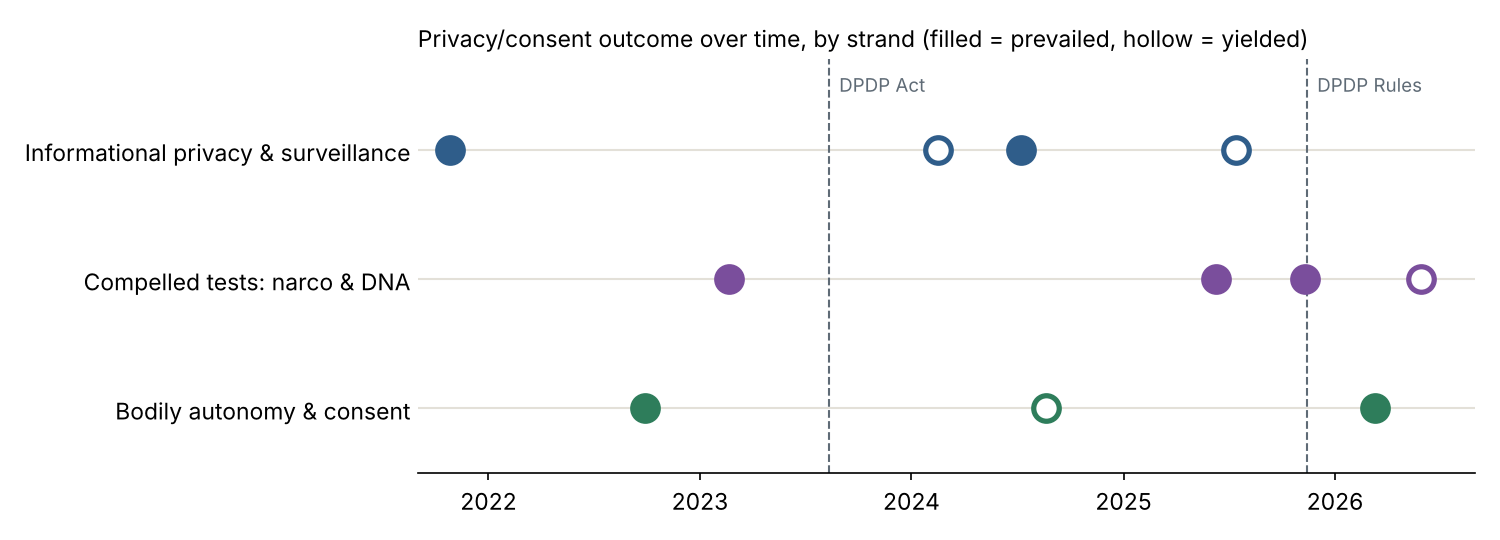
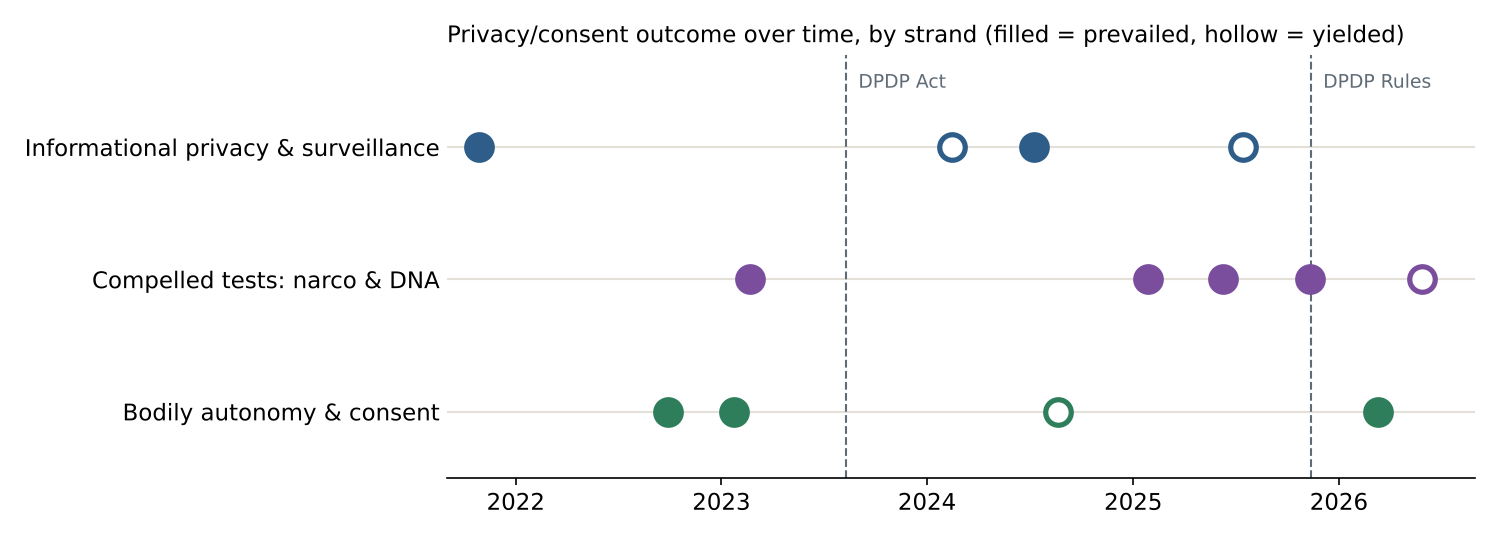
Add files via upload

diff --git a/index.html b/index.html
@@ -1,6 +1,6 @@
 <!doctype html><html lang="en"><head><meta charset="utf-8"><meta name="viewport" content="width=device-width,initial-scale=1">
 <title>Consent and Privacy Judgments</title>
-<meta name="description" content="Content analysis of eleven Supreme Court of India judgments on consent and informational privacy, 2021 to 2026.">
+<meta name="description" content="Content analysis of thirteen Supreme Court of India judgments on consent and informational privacy, 2021 to 2026.">
 <link rel="preconnect" href="https://fonts.googleapis.com"><link rel="preconnect" href="https://fonts.gstatic.com" crossorigin>
 <link href="https://fonts.googleapis.com/css2?family=Source+Serif+4:opsz,wght@8..60,500;8..60,700&family=Inter:wght@400;500;600&display=swap" rel="stylesheet">
 <style>
@@ -55,11 +55,11 @@ footer{margin-top:56px;font-size:13px;color:var(--muted);border-top:1px solid va
 
 <p class="meta">AI Ethics &amp; Legal Responsibility · Option B: Visualising doctrinal evolution · <span class="sym">Symbiosis</span> Law School, Nagpur</p>
 <h1>Consent and informational privacy in the Supreme Court of India, 2021 to 2026</h1>
-<p class="lede">Eleven reasoned judgments, decided between September 2021 and August 2026, on when a person's consent or control over their body and information wins against the State, a spouse, a family member or the public's right to know. Set against the road from <i>Puttaswamy</i> to the DPDP Act.</p>
+<p class="lede">Thirteen reasoned judgments, decided between September 2021 and August 2026, on when a person's consent or control over their body and information wins against the State, a spouse, a family member or the public's right to know. Set against the road from <i>Puttaswamy</i> to the DPDP Act.</p>
 <p class="meta">Team: Astitva Agrawal, Anmol Kumar Sinha, Sahil Islam, Khushi Gurm</p>
 
 <div class="stats" id="stats"></div>
-<nav class="toc"><a href="#timeline">Timeline</a><a href="#charts">What the data shows</a><a href="#trend">Doctrinal trend</a><a href="#method">Method</a><a href="#data">The data</a><a href="#limits">Limits</a></nav>
+<nav class="toc"><a href="#timeline">Timeline</a><a href="#charts">What the data shows</a><a href="#trend">Doctrinal trend</a><a href="#method">Method</a><a href="#data">The data</a><a href="#limits">Limits</a><a href="#ai">AI use</a></nav>
 
 <h2 id="timeline">Timeline</h2>
 <p>Each judgment is colour-coded by strand. A filled dot means the privacy or consent argument prevailed; a hollow dot means it yielded to another interest. Dashed entries are legislative milestones, shown for context only; they are not in the dataset.</p>
@@ -73,33 +73,33 @@ footer{margin-top:56px;font-size:13px;color:var(--muted);border-top:1px solid va
 <p class="sub">One dot per judgment, placed by date of decision. Filled = privacy or consent prevailed; hollow = it yielded.</p>
 <div class="chart" id="c1"></div>
 <div class="legend"><span><i style="background:var(--muted)"></i>Prevailed</span><span><i style="border:2px solid var(--muted);background:transparent"></i>Yielded</span><span>┆ Legislative milestone</span></div>
-<p class="read">Before the DPDP Act was passed, the privacy or consent argument won all three judgments. Afterwards the record is split (4 wins, 4 losses), but the losses are not wins for State power. Each one came where privacy met another person's right: voters (electoral bonds), a minor victim (POCSO), a spouse proving cruelty, and a son seeking his paternity. The compelled-tests strand shows this most clearly. The Court moved from treating DNA tests of children as a near-bar (2023), to a proportionality test (2025), to actually ordering a test once that test was met (2026).</p></div>
+<p class="read">Before the DPDP Act was passed, the privacy or consent argument won all four judgments. Afterwards the record is closer (5 wins, 4 losses), but none of the losses is a win for State power. Each came where privacy met another person's right: voters (electoral bonds), a minor victim (POCSO), a spouse proving cruelty, and a son seeking his paternity. The compelled-tests strand shows the change most clearly. DNA tests of children went from near-barred (<i>Aparna Firodia</i>, 2023), to an 'eminent need' test (<i>Ivan Rathinam</i>, Jan 2025), to proportionality with a nexus to the offence (<i>R. Rajendran</i>, Nov 2025), to a test actually being ordered once those conditions were met (<i>Chaturbhuj Pradhan</i>, 2026).</p></div>
 
 <div class="fig" id="fig2"><h3>Chart 2 · Did the privacy or consent argument win? By strand</h3>
 <p class="sub">Count of judgments in each strand.</p>
 <div class="chart" id="c2"></div>
 <div class="legend"><span><i style="background:var(--yes)"></i>Privacy / consent prevailed</span><span><i style="background:var(--no)"></i>Yielded to another interest</span></div>
-<p class="read">Privacy or consent prevailed in 7 of 11 judgments. Compelled tests are the strongest strand: forced narco-analysis is never allowed, and DNA tests need an "eminent need". Informational privacy is evenly split, because two of its four cases set privacy against another person's right to information or to prove a case.</p></div>
+<p class="read">Privacy or consent prevailed in 9 of 13 judgments. Compelled tests are the strongest strand (4 of 5): forced narco-analysis is never allowed, and DNA tests need an "eminent need". Bodily autonomy follows (3 of 4), with the end-of-life cases moving towards making consent workable for patients who cannot give it. Informational privacy is evenly split, because two of its four cases set privacy against another person's right to information or to prove a case.</p></div>
 
 <div class="fig" id="fig3"><h3>Chart 3 · Who brought the case, and who won</h3>
 <p class="sub">Count of judgments by party type, using the Dataset template's categories. No company or mixed-outcome cases appear in the set.</p>
 <div class="chart" id="c3"></div>
 <div class="legend"><span><i style="background:var(--muted);opacity:.45"></i>Brought the case</span><span><i style="background:var(--acc)"></i>Won</span></div>
-<p class="read">Individuals brought 9 of the 11 cases and won 9. The State's only win, in the POCSO adolescents case, rested on protecting a child, not on any power to intrude. The one NGO case, on electoral bonds, is the only one where an organisation used the right to know against privacy.</p></div>
+<p class="read">Individuals brought 10 of the 13 cases and won 10. The State's only win, in the POCSO adolescents case, rested on protecting a child, not on any power to intrude. Both cases brought by associations were won by them, in opposite directions: a doctors' body (the Indian Society of Critical Care Medicine) got the living-will rules eased in <i>Common Cause</i>, while ADR used the right to know to defeat a privacy claim.</p></div>
 
 <h2 id="trend">The doctrinal trend</h2>
 <div class="trend">
 <p><b>Consent as a shield against State coercion is close to absolute.</b> In <i>Amlesh Kumar</i> (2025) the Court reaffirmed <i>Selvi</i>: a forced narco test is never permissible, and even a voluntary one may be sought only at the defence stage with the court's permission. <i>Frank Vitus</i> (2024) applied the same logic to location data, striking down a bail condition that let police track an accused. In the Pegasus case (2021), a bare plea of national security did not stop an inquiry.</p>
-<p><b>Compelled DNA testing went from a near-bar to a structured test.</b> <i>Aparna Firodia</i> (2023) held that DNA tests of children cannot be ordered routinely. <i>R. Rajendran</i> (2025) added proportionality: the test must be lawful, necessary and tied to the offence being investigated. <i>Chaturbhuj Pradhan</i> (2026) relied on both and then ordered a test, because paternity was the very issue in the suit and nothing else could resolve it. Privacy here is weighed, not assumed.</p>
+<p><b>Compelled DNA testing went from a near-bar to a structured test.</b> <i>Aparna Firodia</i> (2023, paras 16–24) held that a child's genetic information is private and DNA tests cannot be ordered routinely. <i>Ivan Rathinam</i> (Jan 2025, paras 46–47) turned this into two hurdles: existing evidence must be insufficient, and the balance of interests must favour the test. <i>R. Rajendran</i> (Nov 2025, paras 45–48, 52–54) added Puttaswamy proportionality and a nexus to the offence. <i>Chaturbhuj Pradhan</i> (2026, paras 5.3–7) relied on <i>Aparna</i> and <i>Ivan Rathinam</i> and then ordered a test, because paternity was the very issue in the suit. Privacy here is weighed, not assumed, and the line of authority builds on itself case by case.</p>
 <p><b>Privacy against other people's rights is a balance, not a trump.</b> In the electoral bonds case it was the State that invoked donor privacy, and it lost to voters' right to information. In <i>Vibhor Garg</i> (2025) a spouse's privacy gave way to the other spouse's right to prove cruelty with secret recordings.</p>
-<p><b>Consent is read in context.</b> <i>X v. Principal Secretary</i> (2022) protected a minor's identity even though the law treats her consent as irrelevant. <i>In Re: Right to Privacy of Adolescents</i> (2024) refused to let "consent" undo a POCSO conviction. <i>Harish Rana</i> (2026) let medical boards and family supply consent for a patient who could not give it.</p>
-<p><b>Why this matters for the DPDP Act and AI.</b> The Act makes consent the default ground for processing personal data, but lets the State and others process data without it as "legitimate uses". The case law suggests courts will police consent strictly where the State intrudes on a person directly, and will apply a proportionality test where other rights compete. Whether that strictness extends to large-scale data collection, such as data used to train AI, is untested. None of the eleven judgments turns on the DPDP Act.</p>
+<p><b>Consent is read in context.</b> <i>X v. Principal Secretary</i> (2022) protected a minor's identity even though the law treats her consent as irrelevant. <i>In Re: Right to Privacy of Adolescents</i> (2024) refused to let "consent" undo a POCSO conviction. <i>Common Cause</i> (2023) simplified the living-will procedure so that advance directives can work in practice, and <i>Harish Rana</i> (2026) applied that framework to let medical boards and family supply consent for a patient who could not give it.</p>
+<p><b>Why this matters for the DPDP Act and AI.</b> The Act makes consent the default ground for processing personal data, but lets the State and others process data without it as "legitimate uses". The case law suggests courts will police consent strictly where the State intrudes on a person directly, and will apply a proportionality test where other rights compete. Whether that strictness extends to large-scale data collection, such as data used to train AI, is untested. None of the thirteen judgments turns on the DPDP Act.</p>
 </div>
 
 <h2 id="method">Method</h2>
 <div class="method">
 <div class="card"><h3>Scope</h3><p>Supreme Court of India; reasoned judgments decided between 01-09-2021 and 31-08-2026. Orders without reasons and notices are excluded. A judgment is included only if a privacy or consent argument was central to what the Court decided, not merely raised in passing.</p></div>
-<div class="card"><h3>Sources</h3><p>Judgments were found by searching Indian Kanoon, LiveLaw and Supreme Court Observer for “right to privacy”, “informational privacy”, “consent”, “narco-analysis”, “DNA test” and “Article 21”, then confirmed on the Supreme Court's own website (sci.gov.in and Digital SCR). Every entry links to that official copy.</p></div>
+<div class="card"><h3>Sources</h3><p>Judgments were found by searching Indian Kanoon, LiveLaw and Supreme Court Observer for “right to privacy”, “informational privacy”, “consent”, “narco-analysis”, “DNA test” and “Article 21”, then read and coded from the official copy on the Supreme Court's own website (sci.gov.in or Digital SCR), linked from every entry. Secondary sources were used only to find cases, never as the source of a citation. Paragraph pinpoints in the "Main provision" column refer to the official copy.</p></div>
 <div class="card"><h3>Coding</h3><p>Each judgment is coded in the course's Dataset template (data.xlsx / data.csv). Two further labels are the team's own: the <b>strand</b>, and whether the <b>privacy or consent argument prevailed</b>. Where the State itself invoked privacy (electoral bonds), "yielded" means the privacy claim lost, even though the petitioners won.</p></div>
 </div>
 
@@ -108,38 +108,30 @@ footer{margin-top:56px;font-size:13px;color:var(--muted);border-top:1px solid va
 <div class="tablewrap"><table><thead><tr><th>Case</th><th>Citation / case no.</th><th>Date</th><th>Bench</th><th>Type</th><th>Brought by</th><th>Outcome</th><th>Who won</th><th>Main provision</th></tr></thead><tbody id="tb"></tbody></table></div>
 
 <h2 id="limits">Limits</h2>
-<p>Eleven judgments from one court cannot establish a statistical trend. The set covers the Court's main reasoned rulings where privacy or consent decided the case. It is not every judgment that mentions privacy, and a wider search would add many cases where privacy was argued only in passing. The strand labels and the "did privacy prevail" coding are the team's own judgment calls. The Supreme Court mostly hears appeals, so this set says nothing about High Courts or the Data Protection Board.</p>
+<p>Thirteen judgments from one court cannot establish a statistical trend. The set covers the Court's main reasoned rulings where privacy or consent decided the case. It is not every judgment that mentions privacy, and a wider search would add many cases where privacy was argued only in passing. The strand labels and the "did privacy prevail" coding are the team's own judgment calls. The Supreme Court mostly hears appeals, so this set says nothing about High Courts or the Data Protection Board.</p>
+
+<h2 id="ai">AI-use declaration</h2>
+<p>We used Claude (Anthropic) to help build this page and its charts, to draft first versions of the one-line issue and holding summaries, and to cross-check our dataset against the official copies. That check caught two judgments we had wrongly coded as narco-analysis cases, which we replaced. Every entry, citation, link and paragraph pinpoint was then checked by the team member named under "Coded by" against the official judgment, and the analysis and strand coding are the team's own.</p>
 
 <footer>Data and code: this repository. Coded and written by the team for the AI Ethics &amp; Legal Responsibility course, <span class="sym">Symbiosis</span> Law School, Nagpur, 2026.</footer>
 </main>
 
 <script>
-/* ===== DATA (edit here) ===== y:true = privacy/consent prevailed. coder = team member who read the judgment. */
 const STRANDS={s1:{name:"Informational privacy & surveillance",c:"--s1"},s2:{name:"Compelled tests: narco & DNA",c:"--s2"},s3:{name:"Bodily autonomy & consent",c:"--s3"}};
 const CASES=[
-{d:"2021-10-27",s:"s1",y:true,name:"Manohar Lal Sharma v. Union of India",cite:"W.P. (Crl.) No. 314 of 2021",bench:3,type:"Writ petition",by:"Individual",out:"Other",won:"Individual",prec:"K.S. Puttaswamy v. Union of India (2017)",prov:"Art 21",
- issue:"Whether the Court should order an independent inquiry into alleged Pegasus spyware surveillance of citizens.",held:"A bare plea of national security did not shield the Union; an expert committee was appointed to inquire into the surveillance claims.",link:"https://api.sci.gov.in/supremecourt/2021/16884/16884_2021_1_1501_30827_Judgement_27-Oct-2021.pdf",coder:"Astitva Agrawal"},
-{d:"2022-09-29",s:"s3",y:true,name:"X v. Principal Secretary, Health and Family Welfare Department, Govt. of NCT of Delhi",cite:"2022 INSC 1035 (Civil Appeal No. 5802 of 2022)",bench:3,type:"Civil appeal",by:"Individual",out:"Other",won:"Individual",prec:"Suchita Srivastava v. Chandigarh Administration (2009)",prov:"r 3B MTP Rules; s 3(2) MTP Act",
- issue:"Whether unmarried women can terminate a 20–24 week pregnancy, and whether a doctor must reveal a minor's identity to police under POCSO.",held:"Unmarried women fall within the 20–24 week category; a doctor reporting under s 19 POCSO need not disclose the minor's identity.",link:"https://digiscr.sci.gov.in/view_judgment?id=MzA3MTA%3D",coder:"Anmol Kumar Sinha"},
-{d:"2023-02-20",s:"s2",y:true,name:"Aparna Ajinkya Firodia v. Ajinkya Arun Firodia",cite:"2023 INSC 146",bench:2,type:"Civil appeal",by:"Individual",out:"Allowed",won:"Individual",prec:"Goutam Kundu v. State of West Bengal (1993)",prov:"s 112 Evidence Act; Art 21",
- issue:"Whether a family court can order a DNA test of a child to prove the wife's adultery.",held:"DNA tests of children cannot be ordered routinely; the child's privacy and legitimacy must be protected, so the order was set aside.",link:"https://api.sci.gov.in/supremecourt/2022/9691/9691_2022_15_1501_42221_Judgement_20-Feb-2023.pdf",coder:"Sahil Islam"},
-{d:"2024-02-15",s:"s1",y:false,name:"Association for Democratic Reforms v. Union of India",cite:"2024 INSC 113",bench:5,type:"Writ petition",by:"Association or NGO",out:"Allowed",won:"Association or NGO",prec:"K.S. Puttaswamy v. Union of India (2017)",prov:"Art 19(1)(a); Art 21",
- issue:"Whether donor informational privacy justifies anonymous political funding through electoral bonds.",held:"Voters' right to information outweighed donor privacy; the Electoral Bond Scheme was struck down.",
- note:"Coded as “yielded” because the privacy argument here was the State's defence of donor anonymity, and it lost.",link:"https://api.sci.gov.in/supremecourt/2017/27935/27935_2017_1_1501_50573_Judgement_15-Feb-2024.pdf",coder:"Astitva Agrawal"},
-{d:"2024-07-08",s:"s1",y:true,name:"Frank Vitus v. Narcotics Control Bureau",cite:"2024 INSC 479",bench:2,type:"Criminal appeal",by:"Individual",out:"Allowed",won:"Individual",prec:"State of A.P. v. Challa Ramkrishna Reddy (2000)",prov:"Art 21",
- issue:"Whether bail can require the accused to share a Google Maps PIN location with the police.",held:"A bail condition letting police track every movement of the accused violates privacy; the PIN condition was deleted.",link:"https://webapi.sci.gov.in/supremecourt/2023/6687/6687_2023_6_1509_53522_Judgement_08-Jul-2024.pdf",coder:"Anmol Kumar Sinha"},
-{d:"2024-08-20",s:"s3",y:false,name:"In Re: Right to Privacy of Adolescents (with State of West Bengal v. Probhat Purkait)",cite:"2024 INSC 614",bench:2,type:"Other",by:"State or public body",out:"Partly allowed",won:"State or public body",prec:"Gian Singh v. State of Punjab (2012)",prov:"s 6 POCSO; s 19(6) POCSO",
- issue:"Whether a High Court could acquit a POCSO accused on the footing of a ‘consensual’ adolescent relationship and lecture adolescents on sexual conduct.",held:"The conviction was restored and the High Court's remarks set aside; a minor's consent is immaterial under POCSO.",link:"https://api.sci.gov.in/supremecourt/2023/51208/51208_2023_6_1501_54805_Judgement_20-Aug-2024.pdf",coder:"Khushi Gurm"},
-{d:"2025-06-09",s:"s2",y:true,name:"Amlesh Kumar v. State of Bihar",cite:"2025 INSC 810",bench:2,type:"Criminal appeal",by:"Individual",out:"Allowed",won:"Individual",prec:"Selvi v. State of Karnataka (2010)",prov:"Art 20(3); Art 21",
- issue:"Whether a High Court could accept a police plan to narco-test all accused while hearing a bail plea.",held:"Forced narco tests are never permissible; a voluntary test may be sought only at the defence stage with court permission.",link:"https://api.sci.gov.in/supremecourt/2024/9701/9701_2024_4_1501_62184_Judgement_09-Jun-2025.pdf",coder:"Sahil Islam"},
-{d:"2025-07-14",s:"s1",y:false,name:"Vibhor Garg v. Neha",cite:"2025 INSC 829",bench:2,type:"Civil appeal",by:"Individual",out:"Allowed",won:"Individual",prec:"R.M. Malkani v. State of Maharashtra (1973)",prov:"s 122 Evidence Act; Art 21",
- issue:"Whether phone calls secretly recorded by one spouse are admissible in divorce proceedings.",held:"Such recordings are admissible; the wife's privacy objection did not bar them, and the Family Court's order was restored.",link:"https://api.sci.gov.in/supremecourt/2021/31421/31421_2021_5_1501_62289_Judgement_14-Jul-2025.pdf",coder:"Khushi Gurm"},
-{d:"2025-11-10",s:"s2",y:true,name:"R. Rajendran v. Kamar Nisha",cite:"2025 INSC 1304 (Criminal Appeal No. 1013 of 2021)",bench:2,type:"Criminal appeal",by:"Individual",out:"Allowed",won:"Individual",prec:"Goutam Kundu v. State of West Bengal (1993)",prov:"Art 21; s 112 Evidence Act; ss 53, 53A CrPC",
- issue:"Whether a man accused of cheating could be forced to give a DNA sample to establish a child's paternity.",held:"Forced DNA testing is a grave intrusion on privacy and must be lawful, necessary and proportionate, with a nexus to the offence. Paternity was collateral to the charges, so the direction was set aside.",link:"https://api.sci.gov.in/supremecourt/2017/16058/16058_2017_14_1501_65616_Judgement_10-Nov-2025.pdf",coder:"Khushi Gurm"},
-{d:"2026-03-11",s:"s3",y:true,name:"Harish Rana v. Union of India",cite:"2026 INSC 222",bench:2,type:"Other",by:"Individual",out:"Allowed",won:"Individual",prec:"Common Cause v. Union of India (2018)",prov:"Art 21",
- issue:"How passive euthanasia applies to a patient in a permanent vegetative state who cannot consent and left no advance directive.",held:"Withdrawal of artificial nutrition was permitted through surrogate decision-making and medical boards.",link:"https://api.sci.gov.in/supremecourt/2025/60980/60980_2025_7_1501_69246_Judgement_11-Mar-2026.pdf",coder:"Astitva Agrawal"},
-{d:"2026-05-29",s:"s2",y:false,name:"Chaturbhuj Pradhan v. Amar Pradhan",cite:"2026 INSC 600 (arising out of SLP (C) No. 4016 of 2026)",bench:2,type:"Civil appeal",by:"Individual",out:"Dismissed",won:"Individual",prec:"Aparna Ajinkya Firodia v. Ajinkya Arun Firodia (2023)",prov:"s 112 Evidence Act; Art 21",
- issue:"Whether a man could be compelled to take a DNA test in a suit where the plaintiff claims to be his son.",held:"Privacy is not absolute; where paternity is directly in issue and no other evidence can settle it, a DNA test may be ordered. The Civil Court was directed to fix a date for the test.",link:"https://api.sci.gov.in/supremecourt/2025/50840/50840_2025_8_1502_71638_Judgement_29-May-2026.pdf",coder:"Anmol Kumar Sinha"}
+{d:"2021-10-27",s:"s1",y:true,name:"Manohar Lal Sharma v. Union of India",cite:"2021 INSC 682 (W.P. (Crl.) No. 314 of 2021)",bench:3,type:"Writ petition",by:"Individual",out:"Other",won:"Individual",prec:"K.S. Puttaswamy v. Union of India (2017)",prov:"Art 21 (paras 32–36, 49–50, 55–64)",issue:"Whether the Court should order an independent inquiry into alleged Pegasus spyware surveillance of citizens.",held:"A bare plea of national security did not shield the Union; an expert committee was appointed to inquire into the surveillance claims.",link:"https://api.sci.gov.in/supremecourt/2021/16884/16884_2021_1_1501_30827_Judgement_27-Oct-2021.pdf",coder:"Astitva Agrawal"},
+{d:"2022-09-29",s:"s3",y:true,name:"X v. Principal Secretary, Health and Family Welfare Department, Govt. of NCT of Delhi",cite:"2022 INSC 1035 (Civil Appeal No. 5802 of 2022)",bench:3,type:"Civil appeal",by:"Individual",out:"Other",won:"Individual",prec:"Suchita Srivastava v. Chandigarh Administration (2009)",prov:"r 3B MTP Rules; s 3(2) MTP Act; s 19(1) POCSO; Art 21 (paras 81, 89–93, 96–108)",issue:"Whether unmarried women can terminate a 20–24 week pregnancy, and whether a doctor must reveal a minor's identity to police under POCSO.",held:"Unmarried women fall within the 20–24 week category; a doctor reporting under s 19 POCSO need not disclose the minor's identity.",link:"https://digiscr.sci.gov.in/view_judgment?id=MzA3MTA%3D",coder:"Anmol Kumar Sinha"},
+{d:"2023-01-24",s:"s3",y:true,name:"Common Cause (A Registered Society) v. Union of India",cite:"2023 INSC 77 (M.A. No. 1699 of 2019 in W.P. (C) No. 215 of 2005)",bench:5,type:"Other",by:"Association or NGO",out:"Allowed",won:"Association or NGO",prec:"Common Cause v. Union of India (2018)",prov:"Art 21 (paras 4–5, 8–9, 12)",issue:"Whether the 2018 guidelines on living wills and withdrawal of life support, challenged as unworkable by the Indian Society of Critical Care Medicine, should be simplified.",held:"The Court eased the procedure: attestation by a notary or gazetted officer instead of a magistrate, and primary and secondary medical boards with fixed timelines, so that advance directives can work in practice.",link:"https://digiscr.sci.gov.in/view_judgment?id=MzM3MTg%3D",coder:"Astitva Agrawal"},
+{d:"2023-02-20",s:"s2",y:true,name:"Aparna Ajinkya Firodia v. Ajinkya Arun Firodia",cite:"2023 INSC 146 (arising out of SLP (C) No. 9855 of 2022)",bench:2,type:"Civil appeal",by:"Individual",out:"Allowed",won:"Individual",prec:"Goutam Kundu v. State of West Bengal (1993)",prov:"s 112 Evidence Act; Art 21 (Nagarathna J., paras 11.1–12, 16–24, 27)",issue:"Whether a family court can order a DNA test of a child to prove the wife's adultery.",held:"DNA tests of children cannot be ordered routinely; the child's privacy and legitimacy must be protected, so the order was set aside.",link:"https://api.sci.gov.in/supremecourt/2022/9691/9691_2022_15_1501_42221_Judgement_20-Feb-2023.pdf",coder:"Sahil Islam"},
+{d:"2024-02-15",s:"s1",y:false,name:"Association for Democratic Reforms v. Union of India",cite:"2024 INSC 113",bench:5,type:"Writ petition",by:"Association or NGO",out:"Allowed",won:"Association or NGO",prec:"PUCL v. Union of India (2003)",prov:"Art 19(1)(a); Art 21 (CJI's opinion, paras 102–104, 160–174, 216–219)",issue:"Whether donor informational privacy justifies anonymous political funding through electoral bonds.",held:"Voters' right to information outweighed donor privacy; the Electoral Bond Scheme was struck down.",note:"Coded as “yielded” because the privacy argument here was the State's defence of donor anonymity, and it lost.",link:"https://api.sci.gov.in/supremecourt/2017/27935/27935_2017_1_1501_50573_Judgement_15-Feb-2024.pdf",coder:"Astitva Agrawal"},
+{d:"2024-07-08",s:"s1",y:true,name:"Frank Vitus v. Narcotics Control Bureau",cite:"2024 INSC 479 (arising out of SLP (Crl.) Nos. 6339–6340 of 2023)",bench:2,type:"Criminal appeal",by:"Individual",out:"Other",won:"Individual",prec:"State of A.P. v. Challa Ramkrishna Reddy (2000)",prov:"Art 21 (paras 10–10.2, 15)",issue:"Whether bail can require the accused to share a Google Maps PIN location with the police.",held:"A bail condition letting police track every movement of the accused would violate privacy under Article 21; the Google Maps PIN condition and the embassy-certificate condition were deleted, with final orders left for a later date.",link:"https://api.sci.gov.in/supremecourt/2023/6687/6687_2023_6_1509_53522_Judgement_08-Jul-2024.pdf",coder:"Anmol Kumar Sinha"},
+{d:"2024-08-20",s:"s3",y:false,name:"In Re: Right to Privacy of Adolescents (with State of West Bengal v. Probhat Purkait)",cite:"2024 INSC 614 (Suo Motu W.P. (C) No. 3 of 2023 with Crl. A. No. 1451 of 2024)",bench:2,type:"Other",by:"State or public body",out:"Partly allowed",won:"State or public body",prec:"Gian Singh v. State of Punjab (2012)",prov:"s 6 POCSO; s 19(6) POCSO (paras 11, 19–21, 35–37, 44)",issue:"Whether a High Court could acquit a POCSO accused on the footing of a ‘consensual’ adolescent relationship and lecture adolescents on sexual conduct.",held:"The conviction was restored and the High Court's remarks set aside; a minor's consent is immaterial under POCSO.",link:"https://api.sci.gov.in/supremecourt/2023/51208/51208_2023_6_1501_54805_Judgement_20-Aug-2024.pdf",coder:"Khushi Gurm"},
+{d:"2025-01-28",s:"s2",y:true,name:"Ivan Rathinam v. Milan Joseph",cite:"2025 INSC 115 (Crl. A. No. 413 of 2025)",bench:2,type:"Criminal appeal",by:"Individual",out:"Allowed",won:"Individual",prec:"Goutam Kundu v. State of West Bengal (1993)",prov:"s 112 Evidence Act; Art 21 (paras 35–47, 52, 70–71)",issue:"Whether a man alleged to be a child's biological father could be compelled to take a DNA test in maintenance proceedings, when the mother was married to another man at the time of birth.",held:"A DNA test needs an 'eminent need': existing evidence must be insufficient and the balance of interests must favour the test. Neither was met, so the direction was set aside and the respondent was presumed legitimate.",link:"https://api.sci.gov.in/supremecourt/2018/20907/20907_2018_3_1501_58757_Judgement_28-Jan-2025.pdf",coder:"Sahil Islam"},
+{d:"2025-06-09",s:"s2",y:true,name:"Amlesh Kumar v. State of Bihar",cite:"2025 INSC 810 (arising out of SLP (Crl.) No. 5392 of 2024)",bench:2,type:"Criminal appeal",by:"Individual",out:"Allowed",won:"Individual",prec:"Selvi v. State of Karnataka (2010)",prov:"Art 20(3); Art 21 (paras 8–10, 16, 20–21, 23)",issue:"Whether a High Court could accept a police plan to narco-test all accused while hearing a bail plea.",held:"Forced narco tests are never permissible; a voluntary test may be sought only at the defence stage with court permission.",link:"https://api.sci.gov.in/supremecourt/2024/9701/9701_2024_4_1501_62184_Judgement_09-Jun-2025.pdf",coder:"Sahil Islam"},
+{d:"2025-07-14",s:"s1",y:false,name:"Vibhor Garg v. Neha",cite:"2025 INSC 829 (arising out of SLP (C) No. 21195 of 2021)",bench:2,type:"Civil appeal",by:"Individual",out:"Allowed",won:"Individual",prec:"M.C. Verghese v. T.J. Ponnan (1969)",prov:"s 122 Evidence Act; Art 21 (paras 10–10.3, 12–12.6, 13)",issue:"Whether phone calls secretly recorded by one spouse are admissible in divorce proceedings.",held:"Such recordings are admissible; the wife's privacy objection did not bar them, and the Family Court's order was restored.",link:"https://api.sci.gov.in/supremecourt/2021/31421/31421_2021_5_1501_62289_Judgement_14-Jul-2025.pdf",coder:"Khushi Gurm"},
+{d:"2025-11-10",s:"s2",y:true,name:"R. Rajendran v. Kamar Nisha",cite:"2025 INSC 1304 (Criminal Appeal No. 1013 of 2021)",bench:2,type:"Criminal appeal",by:"Individual",out:"Allowed",won:"Individual",prec:"Goutam Kundu v. State of West Bengal (1993)",prov:"Art 21; s 112 Evidence Act; ss 53, 53A CrPC (paras 37, 45–48, 52–54, 58–61)",issue:"Whether a man accused of cheating could be forced to give a DNA sample to establish a child's paternity.",held:"Forced DNA testing is a grave intrusion on privacy and must be lawful, necessary and proportionate, with a nexus to the offence. Paternity was collateral to the charges, so the direction was set aside.",link:"https://api.sci.gov.in/supremecourt/2017/16058/16058_2017_14_1501_65616_Judgement_10-Nov-2025.pdf",coder:"Khushi Gurm"},
+{d:"2026-03-11",s:"s3",y:true,name:"Harish Rana v. Union of India",cite:"2026 INSC 222 (M.A. No. 2238 of 2025 in SLP (C) No. 18225 of 2024)",bench:2,type:"Other",by:"Individual",out:"Allowed",won:"Individual",prec:"Common Cause v. Union of India (2018)",prov:"Art 21 (paras 299–305, 307–312, 324–327)",issue:"How passive euthanasia applies to a patient in a permanent vegetative state who cannot consent and left no advance directive.",held:"Clinically assisted nutrition and hydration is medical treatment; applying the best-interest principle through the Common Cause procedure, with family and medical boards deciding for him, the Court permitted its withdrawal and disposed of the application with directions.",link:"https://api.sci.gov.in/supremecourt/2025/60980/60980_2025_7_1501_69246_Judgement_11-Mar-2026.pdf",coder:"Astitva Agrawal"},
+{d:"2026-05-29",s:"s2",y:false,name:"Chaturbhuj Pradhan v. Amar Pradhan",cite:"2026 INSC 600 (arising out of SLP (C) No. 4016 of 2026)",bench:2,type:"Civil appeal",by:"Individual",out:"Dismissed",won:"Individual",prec:"Ivan Rathinam v. Milan Joseph (2025)",prov:"s 112 Evidence Act; Art 21 (paras 5.3–7)",issue:"Whether a man could be compelled to take a DNA test in a suit where the plaintiff claims to be his son.",held:"Privacy is not absolute; where paternity is directly in issue and no other evidence can settle it, a DNA test may be ordered. The Civil Court was directed to fix a date for the test.",link:"https://api.sci.gov.in/supremecourt/2025/50840/50840_2025_8_1502_71638_Judgement_29-May-2026.pdf",coder:"Anmol Kumar Sinha"}
 ];
 const MILESTONES=[
 {d:"2017-08-24",t:"Puttaswamy: privacy is a fundamental right",when:"Aug 2017"},
@@ -232,7 +224,7 @@ function chart3(){const box=$("#c3");box.querySelectorAll("svg").forEach(s=>s.re
  const pool=CASES.filter(c=>current==="all"||c.s===current);
  const cnt=(f,cat)=>pool.filter(c=>cat.startsWith("Mixed")?(c[f]==="Mixed or unclear"||c[f]==="Other"):c[f]===cat);
  const cats=["Individual","Company","State or public body","Association or NGO","Mixed or unclear / Other"].filter(c=>CASES.some(x=>x.by===c||x.won===c));
- const W=box.clientWidth,narrow=W<560,L=narrow?10:180,R=28,bh=12,grp=narrow?58:40,T=narrow?18:4,H=T+cats.length*grp-grp+2*bh+12,max=11,X=v=>v/max*(W-L-R);
+ const W=box.clientWidth,narrow=W<560,L=narrow?10:180,R=28,bh=12,grp=narrow?58:40,T=narrow?18:4,H=T+cats.length*grp-grp+2*bh+12,max=Math.max(...cats.map(c=>Math.max(cnt('by',c).length,cnt('won',c).length)),1),X=v=>v/max*(W-L-R);
  const svg=el("svg",{viewBox:`0 0 ${W} ${H}`,role:"img","aria-label":"Paired bar chart of who brought and who won"},null);box.prepend(svg);
  cats.forEach((cat,i)=>{const y=T+i*grp;
   if(narrow)el("text",{x:L,y:y-4,class:"lab"},svg,cat);else el("text",{x:L-12,y:y+bh+4,"text-anchor":"end",class:"lab"},svg,cat);

diff --git a/README.md b/README.md
@@ -1,6 +1,6 @@
 # Consent and informational privacy in the Supreme Court of India, 2021 to 2026
 
-**Live page:** see the GitHub Pages link in this repository's About section.
+**Live page:** https://astitvaaaaaaaaaaa-hub.github.io/consent-privacy-judgments/
 
 ## Team
 
@@ -11,39 +11,39 @@
 
 ## Topic
 
-We study when the Supreme Court lets a person's consent, or their control over their body and personal information, win against the State, a family member or the public's right to know. The question matters because the Digital Personal Data Protection Act, 2023 makes consent the default basis for processing personal data. We wanted to see what the Court itself has been saying about consent since *Puttaswamy*, while the Act was being drafted, passed and brought into force.
+We study when the Supreme Court lets a person's consent, or their control over their body and personal information, win against the State, a family member or the public's right to know. The question matters because the Digital Personal Data Protection Act, 2023 makes consent the default basis for processing personal data. We wanted to see what the Court has been saying about consent since *Puttaswamy*.
 
 ## How we found the judgments
 
-We searched Indian Kanoon, LiveLaw and Supreme Court Observer for "right to privacy", "informational privacy", "consent", "narco-analysis", "DNA test" and "Article 21", limited to Supreme Court decisions between 1 September 2021 and 31 August 2026. We did not keep exact result counts. The privacy searches return hundreds of judgments, most of which mention privacy only in passing. We kept a judgment only if it was a reasoned decision and a privacy or consent argument was central to the result. Each case was then confirmed on the Court's own website (sci.gov.in or Digital SCR), and the official copy is linked in `data.csv`. That gave 11 judgments.
+We searched Indian Kanoon, LiveLaw and Supreme Court Observer for "right to privacy", "informational privacy", "consent", "narco-analysis", "DNA test", "advance directive" and "Article 21", limited to Supreme Court decisions between 1 September 2021 and 31 August 2026. We kept a judgment only if it was reasoned and a privacy or consent argument was central to the result. Every case was then read and coded from the official copy on the Court's website (sci.gov.in or Digital SCR), which is linked in `data.csv`. Secondary sources were used only to find cases. That gave 13 judgments. The "Main provision" column gives pinpoint paragraph references to the official copy.
 
-Besides the template columns, we gave each judgment two labels of our own. The first is a **strand**: informational privacy & surveillance, compelled tests (narco & DNA), or bodily autonomy & consent. The second records whether the **privacy or consent argument prevailed** or yielded to another interest.
+Beyond the template columns, each judgment carries two labels of our own: a **strand** (informational privacy & surveillance; compelled tests: narco & DNA; bodily autonomy & consent) and whether the **privacy or consent argument prevailed** or yielded to another interest.
 
 ## What the data shows
 
 ![Privacy and consent outcomes over time, by strand](chart1-over-time.png)
 
-**Over time.** Before the DPDP Act was passed in August 2023, the privacy or consent argument won all three judgments in our set. After it, the record is split four to four. The losses are not wins for State power. Each came where privacy met another person's right: voters' right to know (electoral bonds), a child victim (POCSO), a spouse proving cruelty, and a son seeking his paternity. What surprised us most was the DNA line. *Aparna Firodia* (2023) treated DNA tests of children as a near-bar, and *R. Rajendran* (2025) added a proportionality test. Then *Chaturbhuj Pradhan* (2026) relied on both cases to actually order a test.
+**Over time.** Before the DPDP Act was passed in August 2023, the privacy or consent argument won all four judgments in our set. After it, the record is five wins to four losses. None of the losses is a win for State power. Each came where privacy met another person's right: voters' right to know (electoral bonds), a child victim (POCSO), a spouse proving cruelty, and a son seeking his paternity. What surprised us most was the DNA line, where each case builds on the last. *Aparna Firodia* (2023) treated DNA tests of children as near-barred. *Ivan Rathinam* (January 2025) set two hurdles: insufficient other evidence, and a balance of interests in favour of the test. *R. Rajendran* (November 2025) added proportionality and a nexus to the offence. *Chaturbhuj Pradhan* (2026) then ordered a test once those conditions were met.
 
 ![Did the privacy or consent argument win? By strand](chart2-by-strand.png)
 
-**By strand.** Privacy or consent prevailed in 7 of 11 judgments. Compelled tests are the strongest strand (3 of 4). *Amlesh Kumar* (2025) restated *Selvi*: a forced narco test is never permissible. Informational privacy is split two and two. That did not surprise us, because both losses set privacy against another person's right to information or to prove a case.
+**By strand.** Privacy or consent prevailed in 9 of 13 judgments. Compelled tests are the strongest strand (4 of 5). *Amlesh Kumar* (2025) restated *Selvi*: a forced narco test is never permissible. Bodily autonomy follows (3 of 4). *Common Cause* (2023) simplified the living-will procedure, and *Harish Rana* (2026) applied it to a patient who could not consent. Informational privacy is split two and two, because both losses set privacy against another person's right to information or to prove a case.
 
 ![Who brought the case, and who won](chart3-who-won.png)
 
-**Who won.** Individuals brought 9 of the 11 cases and won 9. The State's only win, in the POCSO adolescents case, rested on protecting a child, not on any power to intrude. We expected the State to appear more often as a winner. Instead, in the electoral bonds case the State relied on donor privacy and lost.
+**Who won.** Individuals brought 10 of the 13 cases and won 10. The State's only win, in the POCSO adolescents case, rested on protecting a child, not on any power to intrude. We expected the State to win more often. Instead, in the electoral bonds case the State relied on donor privacy and lost.
 
-## The doctrinal trend in one paragraph
+## The doctrinal trend
 
-Consent works almost as a trump against direct State coercion: narco tests, location tracking on bail, spyware. Against other people's rights it is weighed under a proportionality test. The DPDP Act's "legitimate uses" let the State and others process data without consent. The case law suggests courts will police that strictly where the State reaches into a person's body or phone, and will balance it elsewhere. None of the 11 judgments turns on the DPDP Act, so how courts will apply that law is still untested.
+Consent works almost as a trump against direct State coercion: narco tests, location tracking on bail, spyware. Against other people's rights it is weighed under a proportionality test that the Court has been steadily refining. The DPDP Act's "legitimate uses" let the State and others process data without consent. The case law suggests courts will police that strictly where the State reaches into a person's body or phone, and will balance it elsewhere. None of the 13 judgments turns on the DPDP Act, so how courts will apply that law is still untested.
 
 ## Limits
 
-Eleven judgments from one court cannot show a statistical trend, and our set is a selection of cases where privacy was central, not every case that mentions it. The strand labels and the "prevailed" coding are our own judgment calls. The Supreme Court mostly hears appeals, so the set says nothing about High Courts or the Data Protection Board.
+Thirteen judgments from one court cannot show a statistical trend. The set is a selection of cases where privacy was central, not every case that mentions it. The strand labels and the "prevailed" coding are our own judgment calls. The Supreme Court mostly hears appeals, so the set says nothing about High Courts or the Data Protection Board.
 
-## AI-use disclosure
+## AI-use declaration
 
-We used Claude (Anthropic) to help build the web page and charts, draft the one-line issue and holding summaries, and check our dataset against the official copies. That check found two judgments we had wrongly coded as narco-analysis cases. *Manoj Kumar Soni* (2023) and *Vinobhai* (2025) are in fact about s 27 Evidence Act disclosure statements, so we removed them and added two DNA-testing judgments. For every judgment, the team member named in the "Coded by" column read the official copy and checked the case name, citation, date, bench, outcome, provision and the one-line summaries against it.
+We used Claude (Anthropic) to help build the web page and charts, draft first versions of the one-line issue and holding summaries, and cross-check the dataset against the official copies. That check caught two judgments we had wrongly coded as narco-analysis cases (*Manoj Kumar Soni*, 2023, and *Vinobhai*, 2025, which concern s 27 Evidence Act disclosure statements), and we replaced them. The team member named under "Coded by" checked each entry, citation, link and paragraph pinpoint against the official judgment. The strand coding and analysis are the team's own.
 
 ## Files
 
